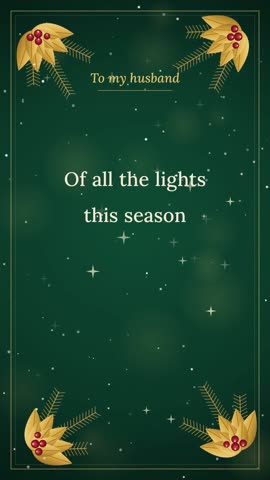
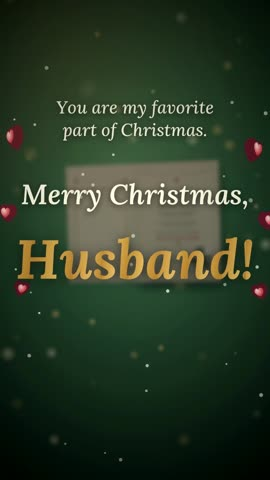
Add Christmas 2026 series

diff --git a/cards.js b/cards.js
@@ -2,6 +2,66 @@
 // To add a card: copy an entry, change the code, title, video URL and poster, then add the poster image next to this file.
 window.SHOP_URL = "https://www.etsy.com/shop/HeartfullyStore";
 window.CARDS = {
+  "iqwbnzo": {
+    title: "Merry Christmas, Mom",
+    video: "https://f003.backblazeb2.com/file/GreetingCards/iqwbnzo/video.mp4",
+    poster: "iqwbnzo.jpg",
+    theme: { accent: "#e8c47a" }
+  },
+  "w0gi45n": {
+    title: "Merry Christmas, Dad",
+    video: "https://f003.backblazeb2.com/file/GreetingCards/w0gi45n/video.mp4",
+    poster: "w0gi45n.jpg",
+    theme: { accent: "#e9c06a" }
+  },
+  "72bowo2": {
+    title: "Merry Christmas, Grandma",
+    video: "https://f003.backblazeb2.com/file/GreetingCards/72bowo2/video.mp4",
+    poster: "72bowo2.jpg",
+    theme: { accent: "#e8a8a8" }
+  },
+  "bpvxbaa": {
+    title: "Merry Christmas, Grandpa",
+    video: "https://f003.backblazeb2.com/file/GreetingCards/bpvxbaa/video.mp4",
+    poster: "bpvxbaa.jpg",
+    theme: { accent: "#e2bf72" }
+  },
+  "3kymykb": {
+    title: "Merry Christmas, My Love",
+    video: "https://f003.backblazeb2.com/file/GreetingCards/3kymykb/video.mp4",
+    poster: "3kymykb.jpg",
+    theme: { accent: "#e6c27a" }
+  },
+  "55e2s6t": {
+    title: "Merry Christmas, Sweetheart",
+    video: "https://f003.backblazeb2.com/file/GreetingCards/55e2s6t/video.mp4",
+    poster: "55e2s6t.jpg",
+    theme: { accent: "#ff9ebc" }
+  },
+  "72gdw4k": {
+    title: "Merry Christmas, Buddy",
+    video: "https://f003.backblazeb2.com/file/GreetingCards/72gdw4k/video.mp4",
+    poster: "72gdw4k.jpg",
+    theme: { accent: "#f0c86a" }
+  },
+  "hc791ju": {
+    title: "Merry Christmas, Bestie",
+    video: "https://f003.backblazeb2.com/file/GreetingCards/hc791ju/video.mp4",
+    poster: "hc791ju.jpg",
+    theme: { accent: "#f2c95a" }
+  },
+  "h8r7ezb": {
+    title: "Merry Christmas, Teacher",
+    video: "https://f003.backblazeb2.com/file/GreetingCards/h8r7ezb/video.mp4",
+    poster: "h8r7ezb.jpg",
+    theme: { accent: "#e2c070" }
+  },
+  "75hll8h": {
+    title: "Merry Christmas, Coworker",
+    video: "https://f003.backblazeb2.com/file/GreetingCards/75hll8h/video.mp4",
+    poster: "75hll8h.jpg",
+    theme: { accent: "#e8cc86" }
+  },
   "mntrbhw": {
     title: "Happy New Year, Mom",
     video: "https://f003.backblazeb2.com/file/GreetingCards/mntrbhw/video.mp4",
@@ -87,10 +147,10 @@ window.CARDS = {
     theme: { accent: "#e6b85c" }
   },
   "s952k98": {
-    title: "Merry Christmas, My Love",
+    title: "Merry Christmas, Husband",
     video: "https://f003.backblazeb2.com/file/GreetingCards/s952k98/video.mp4",
     poster: "s952k98.jpg",
-    theme: { accent: "#e6b85c" }
+    theme: { accent: "#e8c47a" }
   },
   "mxm7ci9": {
     title: "Happy New Year, Grandpa",
